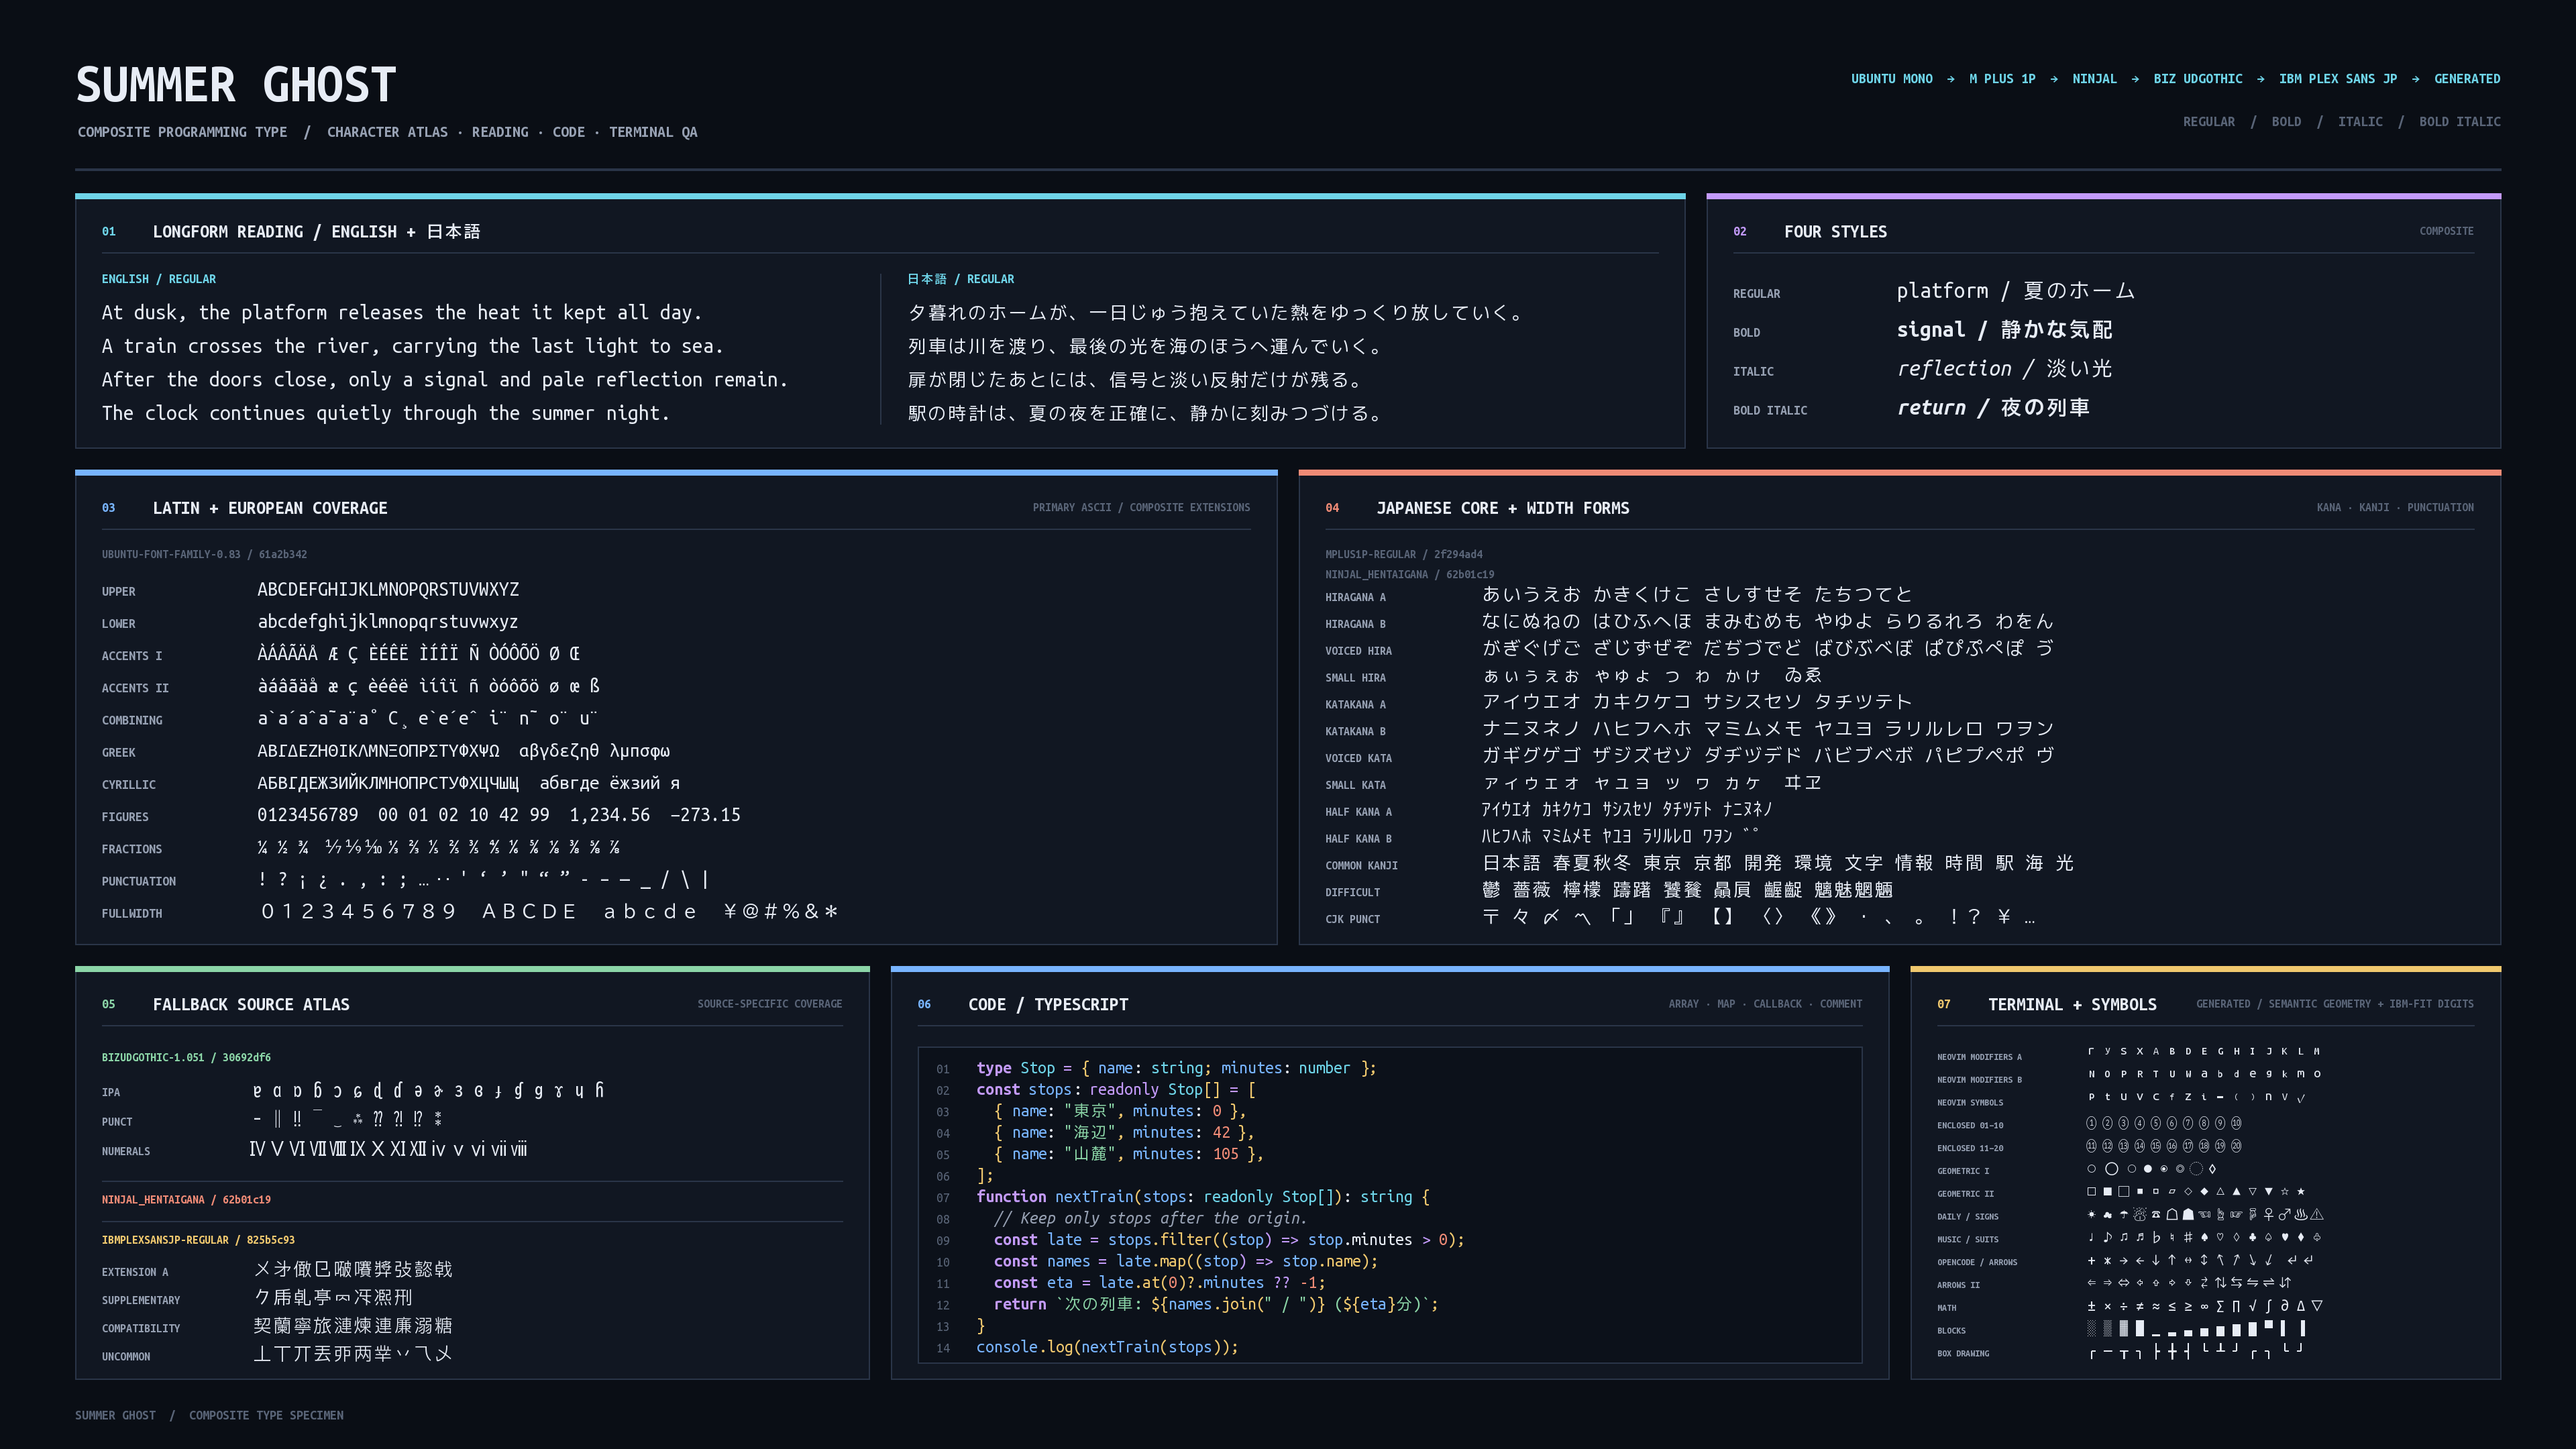
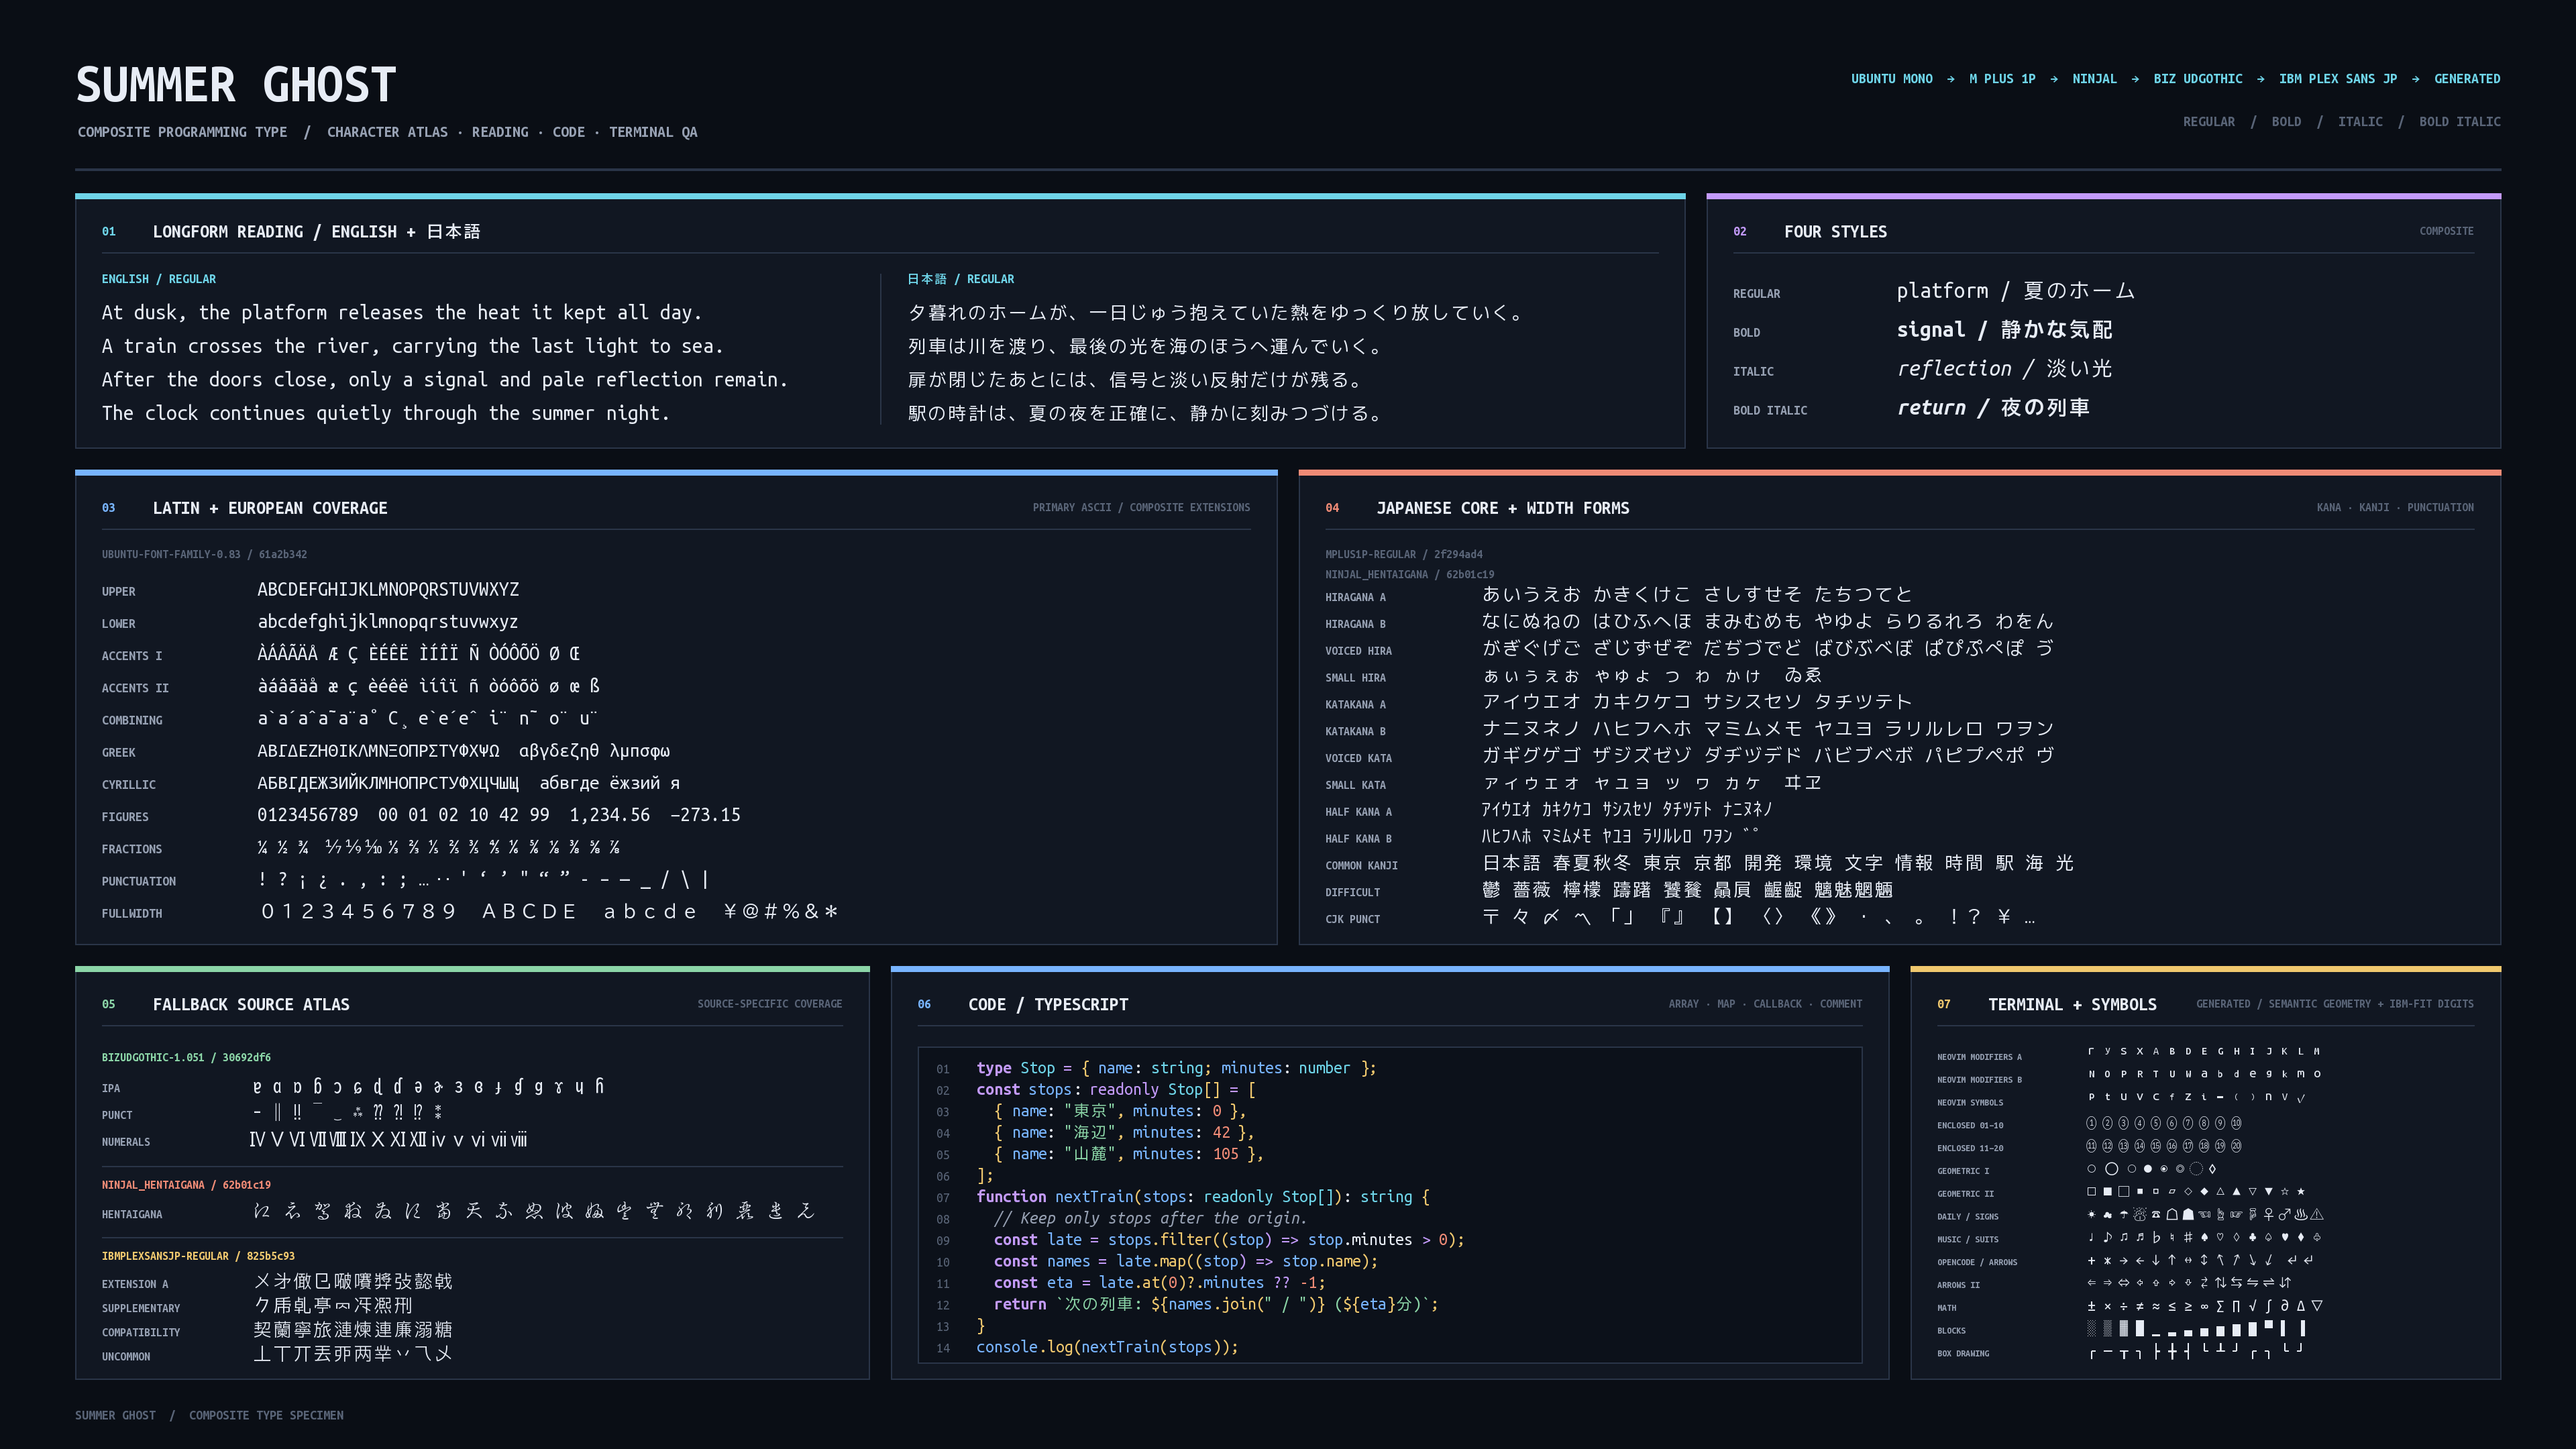
docs(specimen): show NINJAL hentaigana samples

Changed region(s): [[0.0312, 0.7444, 0.2188, 0.9306]]

diff --git a/scripts/render_specimen.py b/scripts/render_specimen.py
@@ -116,6 +116,7 @@ BIZ_ROWS = (
     Row("PUNCT", "‐ ‖ ‼ ‾ ‿ ⁂ ⁇ ⁈ ⁉ ⁑"),
     Row("NUMERALS", "Ⅳ Ⅴ Ⅵ Ⅶ Ⅷ Ⅸ Ⅹ Ⅺ Ⅻ ⅳ ⅴ ⅵ ⅶ ⅷ"),
 )
+NINJAL_ROWS = (Row("HENTAIGANA", "𛀁 𛀑 𛀡 𛀱 𛁁 𛁑 𛁡 𛁱 𛂁 𛂑 𛂡 𛂱 𛃁 𛃑 𛃡 𛃱 𛄁 𛄑 𛄞"),)
 IBM_ROWS = (
     Row("EXTENSION A", "㐅㐧㒈㔾㗞㘔㢡㢭㦤㦸"),
     Row("SUPPLEMENTARY", "𠂊𠂰𠃵𠅘𠔿𠖱𠘑𠛬"),
@@ -333,7 +334,7 @@ def validate_fallback_samples() -> None:
         raise ValueError(f"unsupported provenance origins: {unknown}")
     with TTFont(BytesIO(font_data("Regular")), lazy=True) as generated:
         cmap = generated.getBestCmap()
-    for expected_source, sample_rows in (("biz", BIZ_ROWS), ("ibm", IBM_ROWS)):
+    for expected_source, sample_rows in (("biz", BIZ_ROWS), ("ninjal", NINJAL_ROWS), ("ibm", IBM_ROWS)):
         for row in sample_rows:
             codepoints = [ord(character) for character in row.sample if not character.isspace()]
             wrong_origins = [
@@ -524,17 +525,18 @@ def draw_japanese(canvas: Canvas, sources: Sources) -> None:
 
 
 def draw_fallbacks(canvas: Canvas, sources: Sources) -> None:
-    """Draw provenance-verified BIZ and IBM fallback-only specimens."""
+    """Draw provenance-verified BIZ, NINJAL, and IBM source specimens."""
     box = (column_x(0), 720, column_x(0) + span(4), 1028)
     panel(canvas, box, "05", "FALLBACK SOURCE ATLAS", GREEN, "SOURCE-SPECIFIC COVERAGE")
     with canvas.within(box):
         canvas.text((box[0] + PANEL_PAD, 791), sources.biz, face=font("Bold", 9), fill=GREEN, anchor="ls")
-        rows(canvas, (box[0] + PANEL_PAD, 817), BIZ_ROWS, label_width=112, step=22, size=15, label_size=9)
-        canvas.line((box[0] + PANEL_PAD, 880, box[2] - PANEL_PAD, 880))
-        canvas.text((box[0] + PANEL_PAD, 897), sources.ninjal, face=font("Bold", 9), fill=CORAL, anchor="ls")
-        canvas.line((box[0] + PANEL_PAD, 910, box[2] - PANEL_PAD, 910))
-        canvas.text((box[0] + PANEL_PAD, 927), sources.ibm, face=font("Bold", 9), fill=AMBER, anchor="ls")
-        rows(canvas, (box[0] + PANEL_PAD, 951), IBM_ROWS, label_width=112, step=21, size=15, label_size=9)
+        rows(canvas, (box[0] + PANEL_PAD, 814), BIZ_ROWS, label_width=112, step=20, size=15, label_size=9)
+        canvas.line((box[0] + PANEL_PAD, 869, box[2] - PANEL_PAD, 869))
+        canvas.text((box[0] + PANEL_PAD, 886), sources.ninjal, face=font("Bold", 9), fill=CORAL, anchor="ls")
+        rows(canvas, (box[0] + PANEL_PAD, 908), NINJAL_ROWS, label_width=112, step=18, size=15, label_size=9)
+        canvas.line((box[0] + PANEL_PAD, 922, box[2] - PANEL_PAD, 922))
+        canvas.text((box[0] + PANEL_PAD, 939), sources.ibm, face=font("Bold", 9), fill=AMBER, anchor="ls")
+        rows(canvas, (box[0] + PANEL_PAD, 960), IBM_ROWS, label_width=112, step=18, size=15, label_size=9)
 
 
 def draw_code(canvas: Canvas) -> None:
